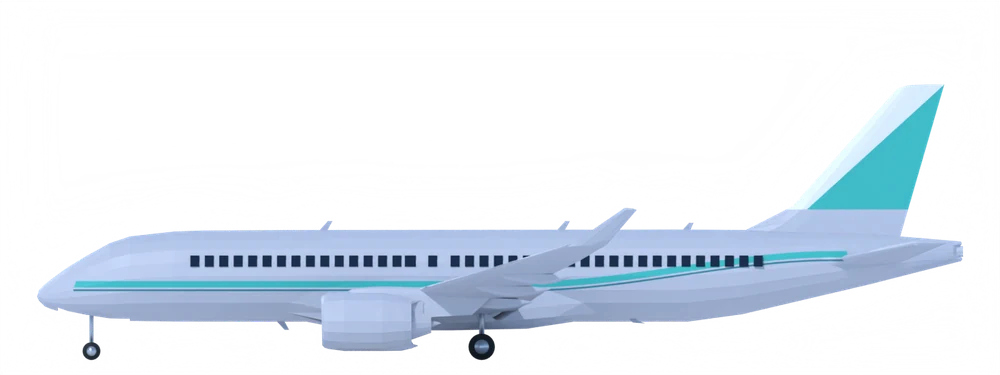
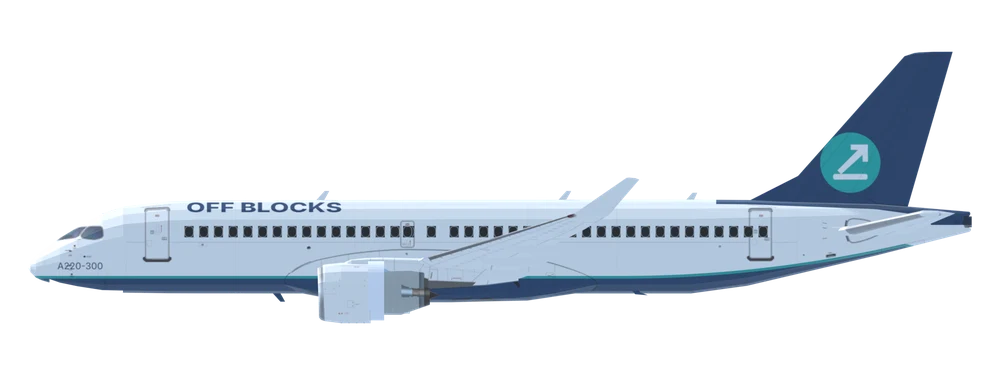
CRJ-200/700/900/1000 and A220-100/300 renders with Off Blocks livery
Claude-Session: https://claude.ai/code/session_01XrFePU9h1hCzy7p7tSHsYD

Changed region(s): [[0.031, 0.1173, 0.992, 0.968]]

diff --git a/sw.js b/sw.js
@@ -1,5 +1,5 @@
 /* Off Blocks service worker. Bump VER to push an update to installed copies. */
-const VER='ob-v47',CORE=["./", "index.html", "manifest.webmanifest", "network.json", "icons/icon-192.png", "icons/icon-512.png", "mapimg/detail.json", "mapimg/sat.webp", "mapimg/terrain.webp", "img/A19N.webp", "img/A19N_side.webp", "img/A20N.webp", "img/A20N_side.webp", "img/A21N.webp", "img/A21N_side.webp", "img/A21X.webp", "img/A21X_side.webp", "img/A306_side.webp", "img/A310.webp", "img/A310_side.webp", "img/A318.webp", "img/A318_side.webp", "img/A319.webp", "img/A319_side.webp", "img/A320.webp", "img/A320_side.webp", "img/A321.webp", "img/A321_side.webp", "img/A332_side.webp", "img/A333_side.webp", "img/A338.webp", "img/A338_side.webp", "img/A339.webp", "img/A339_side.webp", "img/A343_side.webp", "img/A346_side.webp", "img/A359_side.webp", "img/A35K.webp", "img/A35K_side.webp", "img/A388_side.webp", "img/AN24.webp", "img/AR21.webp", "img/AT42_side.webp", "img/AT76_side.webp", "img/B190.webp", "img/B37M.webp", "img/B37M_side.webp", "img/B38M.webp", "img/B38M_side.webp", "img/B39M.webp", "img/B39M_side.webp", "img/B3XM.webp", "img/B3XM_side.webp", "img/B712.webp", "img/B712_side.webp", "img/B722_side.webp", "img/B732.webp", "img/B732_side.webp", "img/B733_side.webp", "img/B734_side.webp", "img/B735.webp", "img/B735_side.webp", "img/B736_side.webp", "img/B737_side.webp", "img/B738_side.webp", "img/B739_side.webp", "img/B744_side.webp", "img/B748_side.webp", "img/B752.webp", "img/B752_side.webp", "img/B753.webp", "img/B753_side.webp", "img/B762.webp", "img/B762_side.webp", "img/B763_side.webp", "img/B764.webp", "img/B764_side.webp", "img/B772_side.webp", "img/B773.webp", "img/B773_side.webp", "img/B779.webp", "img/B779_side.webp", "img/B77L_side.webp", "img/B77W_side.webp", "img/B788_side.webp", "img/B789_side.webp", "img/B78X_side.webp", "img/BCS1_side.webp", "img/BCS3_side.webp", "img/C208.webp", "img/C208_side.webp", "img/C919.webp", "img/C919_side.webp", "img/CRJ2.webp", "img/CRJ2_side.webp", "img/CRJ7_side.webp", "img/CRJ9.webp", "img/CRJ9_side.webp", "img/CRJX_side.webp", "img/D328.webp", "img/DH8A.webp", "img/DH8A_side.webp", "img/DH8C_side.webp", "img/DH8D_side.webp", "img/DHC6_side.webp", "img/E120.webp", "img/E120_side.webp", "img/E135.webp", "img/E135_side.webp", "img/E140.webp", "img/E140_side.webp", "img/E145.webp", "img/E145_side.webp", "img/E170_side.webp", "img/E175_side.webp", "img/E190_side.webp", "img/E195.webp", "img/E195_side.webp", "img/E290_side.webp", "img/E295.webp", "img/E295_side.webp", "img/E75X.webp", "img/E75X_side.webp", "img/F100.webp", "img/F100_side.webp", "img/F50.webp", "img/F50_side.webp", "img/F70.webp", "img/F70_side.webp", "img/J41.webp", "img/L410.webp", "img/L410_side.webp", "img/MA60.webp", "img/MD83.webp", "img/MD83_side.webp", "img/MD90.webp", "img/MD90_side.webp", "img/RJ1H.webp", "img/RJ1H_side.webp", "img/RJ85.webp", "img/RJ85_side.webp", "img/SB20.webp", "img/SF34_side.webp", "img/T154.webp", "img/T154_side.webp"];
+const VER='ob-v48',CORE=["./", "index.html", "manifest.webmanifest", "network.json", "icons/icon-192.png", "icons/icon-512.png", "mapimg/detail.json", "mapimg/sat.webp", "mapimg/terrain.webp", "img/A19N.webp", "img/A19N_side.webp", "img/A20N.webp", "img/A20N_side.webp", "img/A21N.webp", "img/A21N_side.webp", "img/A21X.webp", "img/A21X_side.webp", "img/A306_side.webp", "img/A310.webp", "img/A310_side.webp", "img/A318.webp", "img/A318_side.webp", "img/A319.webp", "img/A319_side.webp", "img/A320.webp", "img/A320_side.webp", "img/A321.webp", "img/A321_side.webp", "img/A332_side.webp", "img/A333_side.webp", "img/A338.webp", "img/A338_side.webp", "img/A339.webp", "img/A339_side.webp", "img/A343_side.webp", "img/A346_side.webp", "img/A359_side.webp", "img/A35K.webp", "img/A35K_side.webp", "img/A388_side.webp", "img/AN24.webp", "img/AR21.webp", "img/AT42_side.webp", "img/AT76_side.webp", "img/B190.webp", "img/B37M.webp", "img/B37M_side.webp", "img/B38M.webp", "img/B38M_side.webp", "img/B39M.webp", "img/B39M_side.webp", "img/B3XM.webp", "img/B3XM_side.webp", "img/B712.webp", "img/B712_side.webp", "img/B722_side.webp", "img/B732.webp", "img/B732_side.webp", "img/B733_side.webp", "img/B734_side.webp", "img/B735.webp", "img/B735_side.webp", "img/B736_side.webp", "img/B737_side.webp", "img/B738_side.webp", "img/B739_side.webp", "img/B744_side.webp", "img/B748_side.webp", "img/B752.webp", "img/B752_side.webp", "img/B753.webp", "img/B753_side.webp", "img/B762.webp", "img/B762_side.webp", "img/B763_side.webp", "img/B764.webp", "img/B764_side.webp", "img/B772_side.webp", "img/B773.webp", "img/B773_side.webp", "img/B779.webp", "img/B779_side.webp", "img/B77L_side.webp", "img/B77W_side.webp", "img/B788_side.webp", "img/B789_side.webp", "img/B78X_side.webp", "img/BCS1_side.webp", "img/BCS3_side.webp", "img/C208.webp", "img/C208_side.webp", "img/C919.webp", "img/C919_side.webp", "img/CRJ2.webp", "img/CRJ2_side.webp", "img/CRJ7_side.webp", "img/CRJ9.webp", "img/CRJ9_side.webp", "img/CRJX_side.webp", "img/D328.webp", "img/DH8A.webp", "img/DH8A_side.webp", "img/DH8C_side.webp", "img/DH8D_side.webp", "img/DHC6_side.webp", "img/E120.webp", "img/E120_side.webp", "img/E135.webp", "img/E135_side.webp", "img/E140.webp", "img/E140_side.webp", "img/E145.webp", "img/E145_side.webp", "img/E170_side.webp", "img/E175_side.webp", "img/E190_side.webp", "img/E195.webp", "img/E195_side.webp", "img/E290_side.webp", "img/E295.webp", "img/E295_side.webp", "img/E75X.webp", "img/E75X_side.webp", "img/F100.webp", "img/F100_side.webp", "img/F50.webp", "img/F50_side.webp", "img/F70.webp", "img/F70_side.webp", "img/J41.webp", "img/L410.webp", "img/L410_side.webp", "img/MA60.webp", "img/MD83.webp", "img/MD83_side.webp", "img/MD90.webp", "img/MD90_side.webp", "img/RJ1H.webp", "img/RJ1H_side.webp", "img/RJ85.webp", "img/RJ85_side.webp", "img/SB20.webp", "img/SF34_side.webp", "img/T154.webp", "img/T154_side.webp"];
 self.addEventListener('install',e=>{e.waitUntil(caches.open(VER).then(c=>Promise.all(CORE.map(u=>c.add(u).catch(()=>0)))).then(()=>self.skipWaiting()))});
 self.addEventListener('activate',e=>{e.waitUntil(caches.keys().then(k=>Promise.all(k.filter(x=>x!==VER).map(x=>caches.delete(x)))).then(()=>self.clients.claim()))});
 self.addEventListener('fetch',e=>{const r=e.request,u=new URL(r.url);if(r.method!=='GET'||u.origin!==location.origin)return;

diff --git a/index.html b/index.html
@@ -180,7 +180,7 @@ const lvBase=src=>new Promise(res=>{if(LVI.base[src])return res(LVI.base[src]);c
 const PHOTOS_OFF={B39M:{src:'img/B39M_photo.webp',by:'Clemens Vasters',lic:'CC BY 2.0',lu:'https://creativecommons.org/licenses/by/2.0/',url:'https://commons.wikimedia.org/wiki/File:N7379E_-_Boeing_737_MAX_9.jpg',n:'Boeing 737 MAX 9'}};
 const PHOTOS={};
 /* types with a finished Off Blocks livery render: shown as-is, no repaint */
-const LVNAT={B38M:1,B39M:1,A318:1,A319:1,A320:1,A321:1,A19N:1,A20N:1,A21N:1,A21X:1,A332:1,A333:1,A338:1,A339:1,A343:1,A346:1,A359:1,A35K:1,B772:1,B773:1,B77L:1,B77W:1,B777:1,B779:1,B788:1,B789:1,B78X:1,B787:1,B752:1,B753:1,B762:1,B763:1,B764:1,E170:1,E175:1,E75L:1,E75X:1,E190:1,E195:1,E290:1,E295:1};
+const LVNAT={B38M:1,B39M:1,A318:1,A319:1,A320:1,A321:1,A19N:1,A20N:1,A21N:1,A21X:1,A332:1,A333:1,A338:1,A339:1,A343:1,A346:1,A359:1,A35K:1,B772:1,B773:1,B77L:1,B77W:1,B777:1,B779:1,B788:1,B789:1,B78X:1,B787:1,B752:1,B753:1,B762:1,B763:1,B764:1,E170:1,E175:1,E75L:1,E75X:1,E190:1,E195:1,E290:1,E295:1,CRJ7:1,CRJ2:1,CRJ9:1,CRJX:1,BCS1:1,BCS3:1};
 const lvSrc=(c,v,l)=>LVI.cache[lvKey(c,v,l)]||'img/'+c+(v==='s'?'_side':'')+'.webp';
 /* natural white: the renders come out blue-grey, so lift and neutralise every light, low-saturation pixel (windows, gear and dark detail are left alone) */
 function lvRefL(d,A){const a=[];for(let i=0;i<A.length;i+=7){if(!A[i])continue;const j=i*4,r=d[j],g=d[j+1],b=d[j+2],mx=Math.max(r,g,b),lu=.3*r+.59*g+.11*b;if(lu>110&&(mx-Math.min(r,g,b))/(mx||1)<.36)a.push(lu)}if(!a.length)return 190;a.sort((p,q)=>p-q);return a[a.length>>1]}
